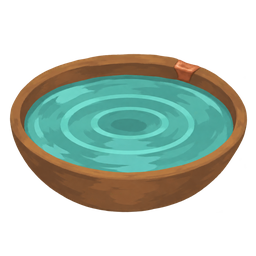
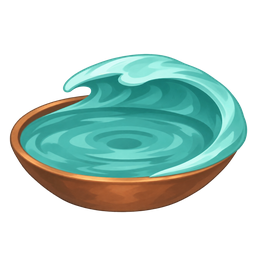
Refine the feather, basin and hourglass

diff --git a/src/ForgeCatalog.Generated.cs b/src/ForgeCatalog.Generated.cs
@@ -384,7 +384,7 @@ public sealed class ForgedEternalFeather : CatalogRelic
 {
     internal override string MaterialId => "ETERNAL_FEATHER";
     internal override RelicModel Original => ModelDb.Relic<EternalFeather>();
-    internal override string ChineseName => "叠绒羽毛";
+    internal override string ChineseName => "回春羽毛";
     internal override string ChineseEffect => "进火堆时，牌组每有5张牌就回复3点生命。若入场时生命不超过一半，再回复3点。";
 }
 
@@ -392,7 +392,7 @@ public sealed class ForgedRippleBasin : CatalogRelic
 {
     internal override string MaterialId => "RIPPLE_BASIN";
     internal override RelicModel Original => ModelDb.Relic<RippleBasin>();
-    internal override string ChineseName => "静水铜盆";
+    internal override string ChineseName => "涟漪铜盆";
     internal override string ChineseEffect => "若本回合没有打出攻击牌，回合结束时获得4点格挡。若至少打出2张技能牌，则获得6点。";
 }
 

diff --git a/README.md b/README.md
@@ -1,6 +1,6 @@
 # 杀戮尖塔 2 · 遗物升级
 
-遗物升级 v0.113.1.3 对应《杀戮尖塔 2》v0.113.1，适用于单人标准模式，需要 BaseLib v3.4.8。源码在 `src`，图标 PNG 在 `art`。
+遗物升级 v0.113.1.4 对应《杀戮尖塔 2》v0.113.1，适用于单人标准模式，需要 BaseLib v3.4.8。源码在 `src`，图标 PNG 在 `art`。
 
 Mod 版本号采用 `游戏版本.更新序号`。同一游戏版本下从 `.1` 开始，后续更新依次使用 `.2`、`.3`。适配新游戏版本时，更新前三段并从 `.1` 重新计数。游戏清单采用加载器支持的格式，例如 `0.113.1-1` 对应 Mod `v0.113.1.1`。
 
